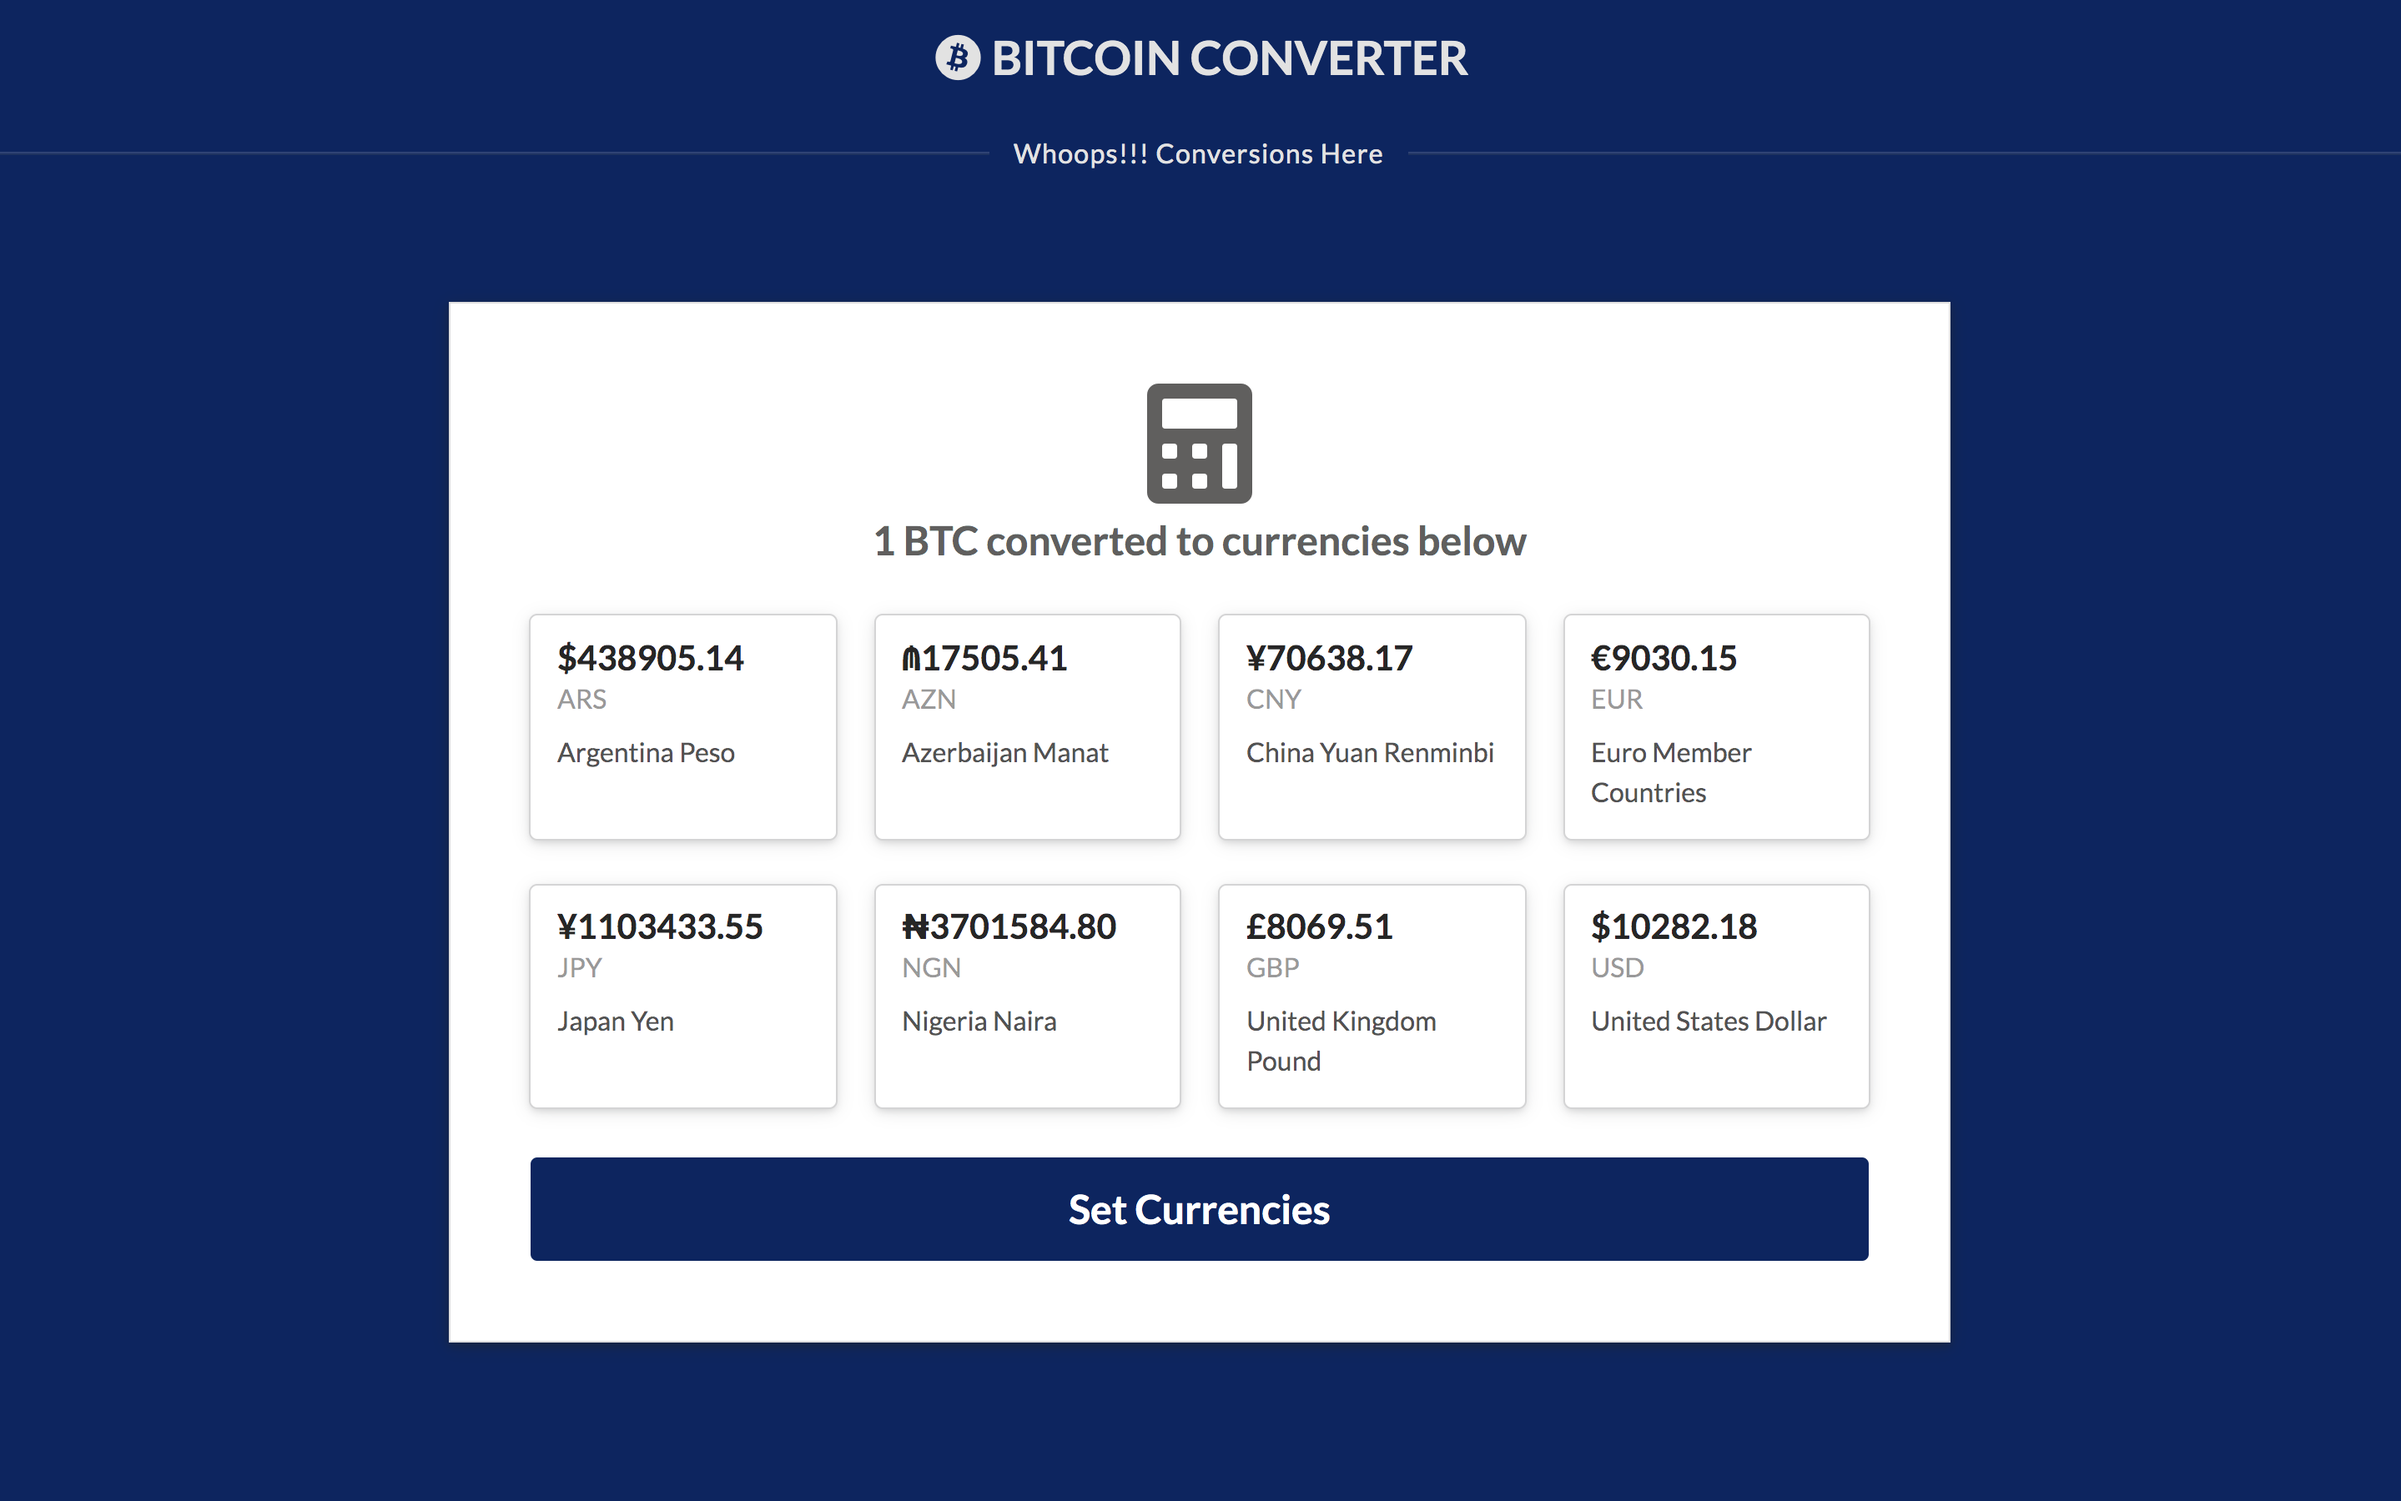
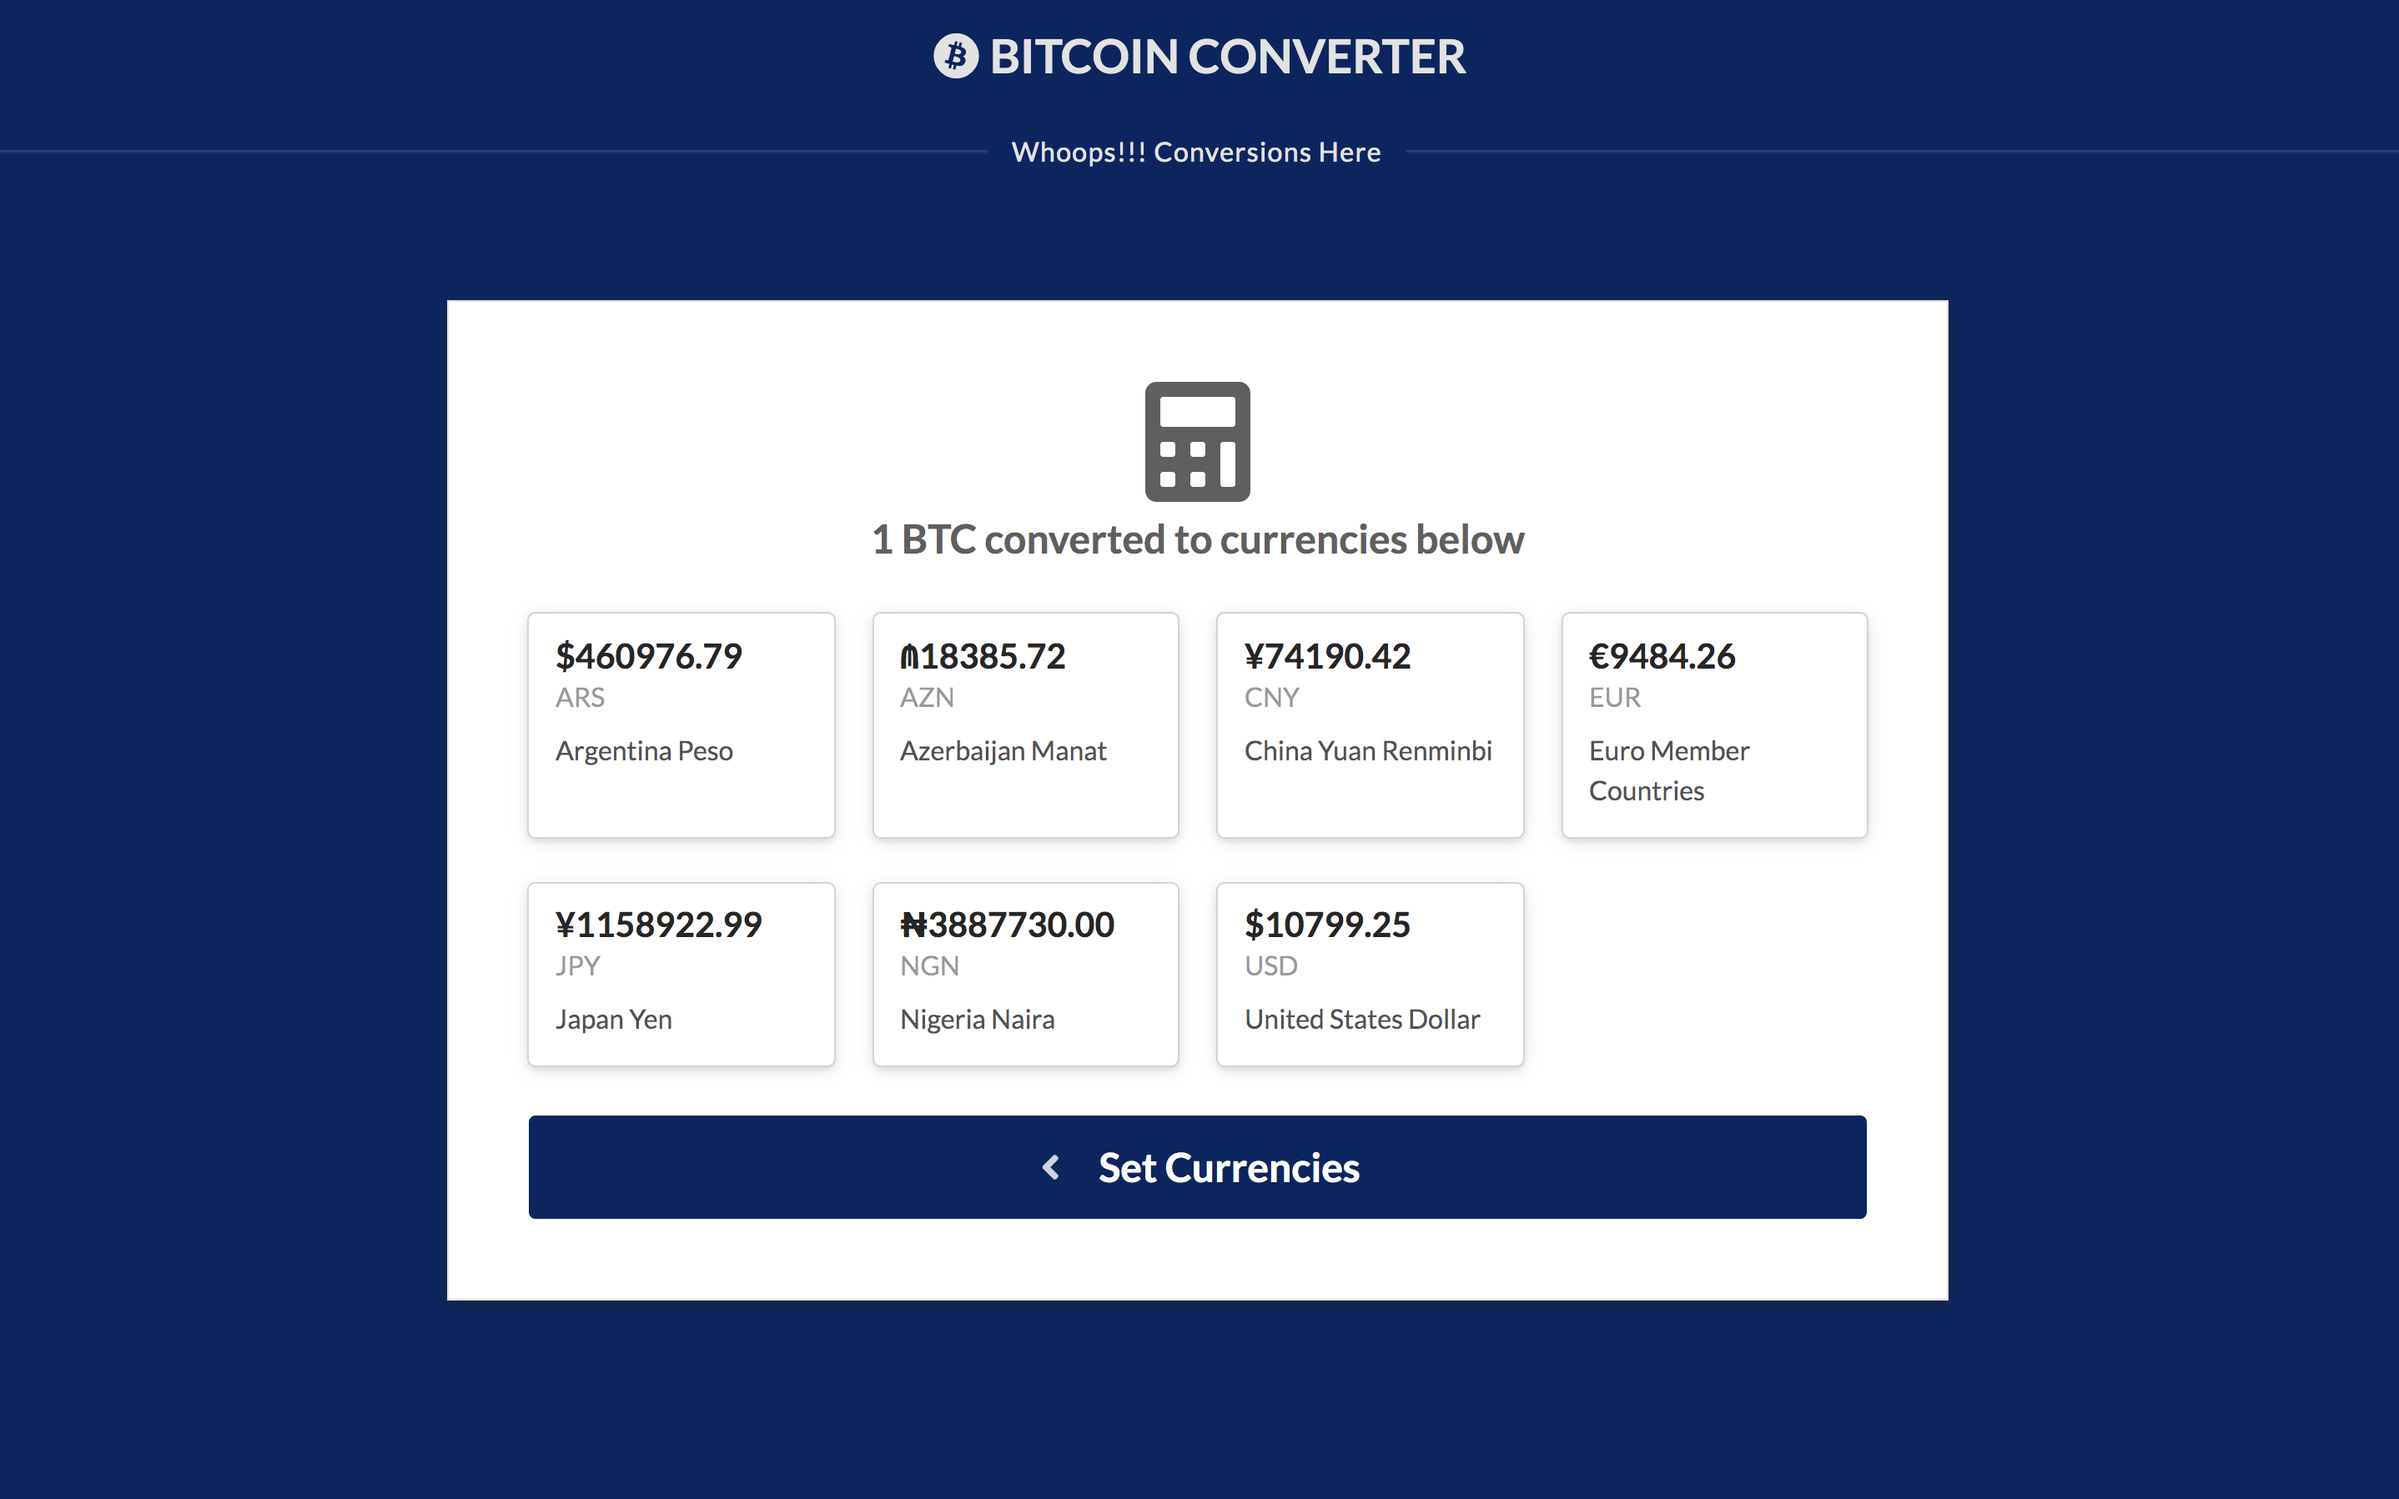
Update README - Reference root url for live link - Update screenshot for results page

diff --git a/README.md b/README.md
@@ -1,5 +1,5 @@
 # Bitcoin Converter
-An application for converting currencies into their bitcoin value. View it live here https://react-bitcoin-converter.netlify.com/currencies
+An application for converting currencies into their bitcoin value. View it live here https://react-bitcoin-converter.netlify.com
 
 ### Basic Information View
 ![Basic Info](screenshots/basic_info.png?raw=true "Basic Info")
